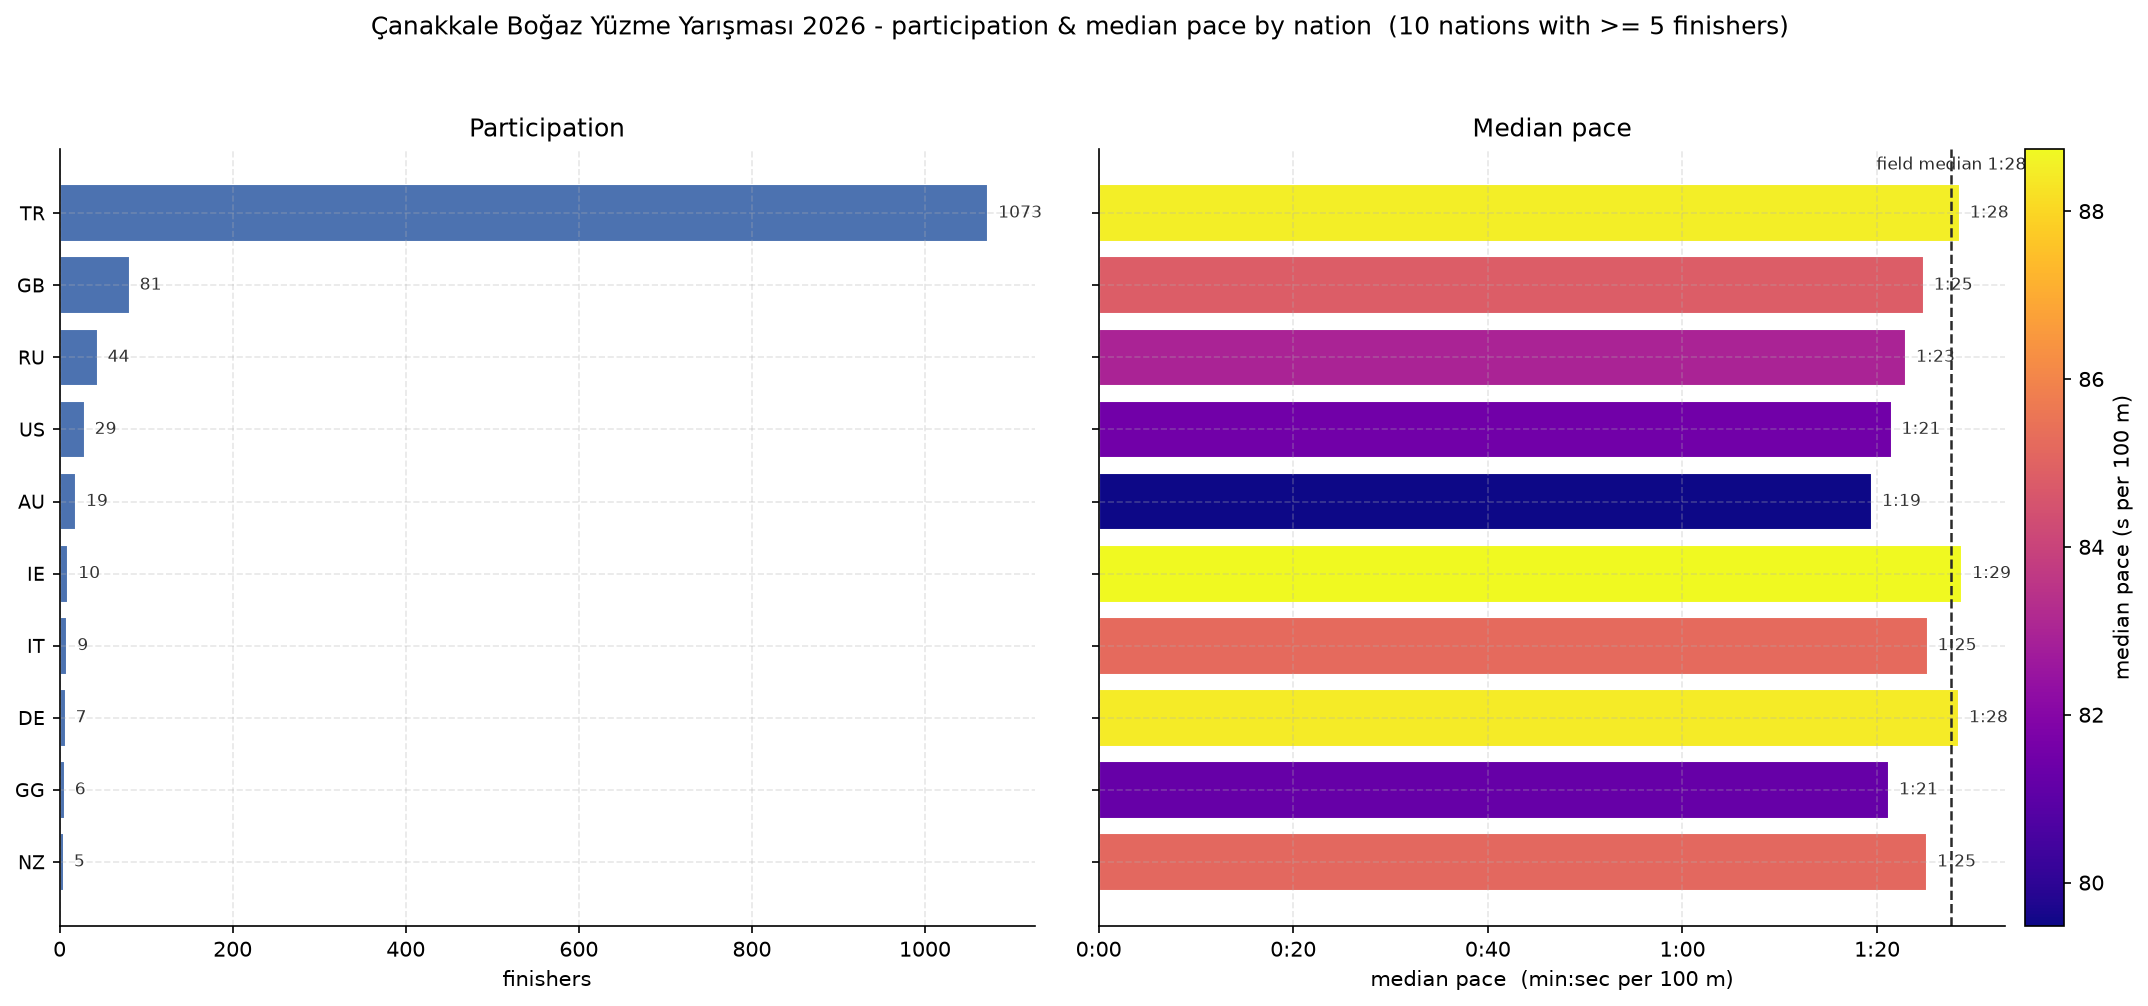
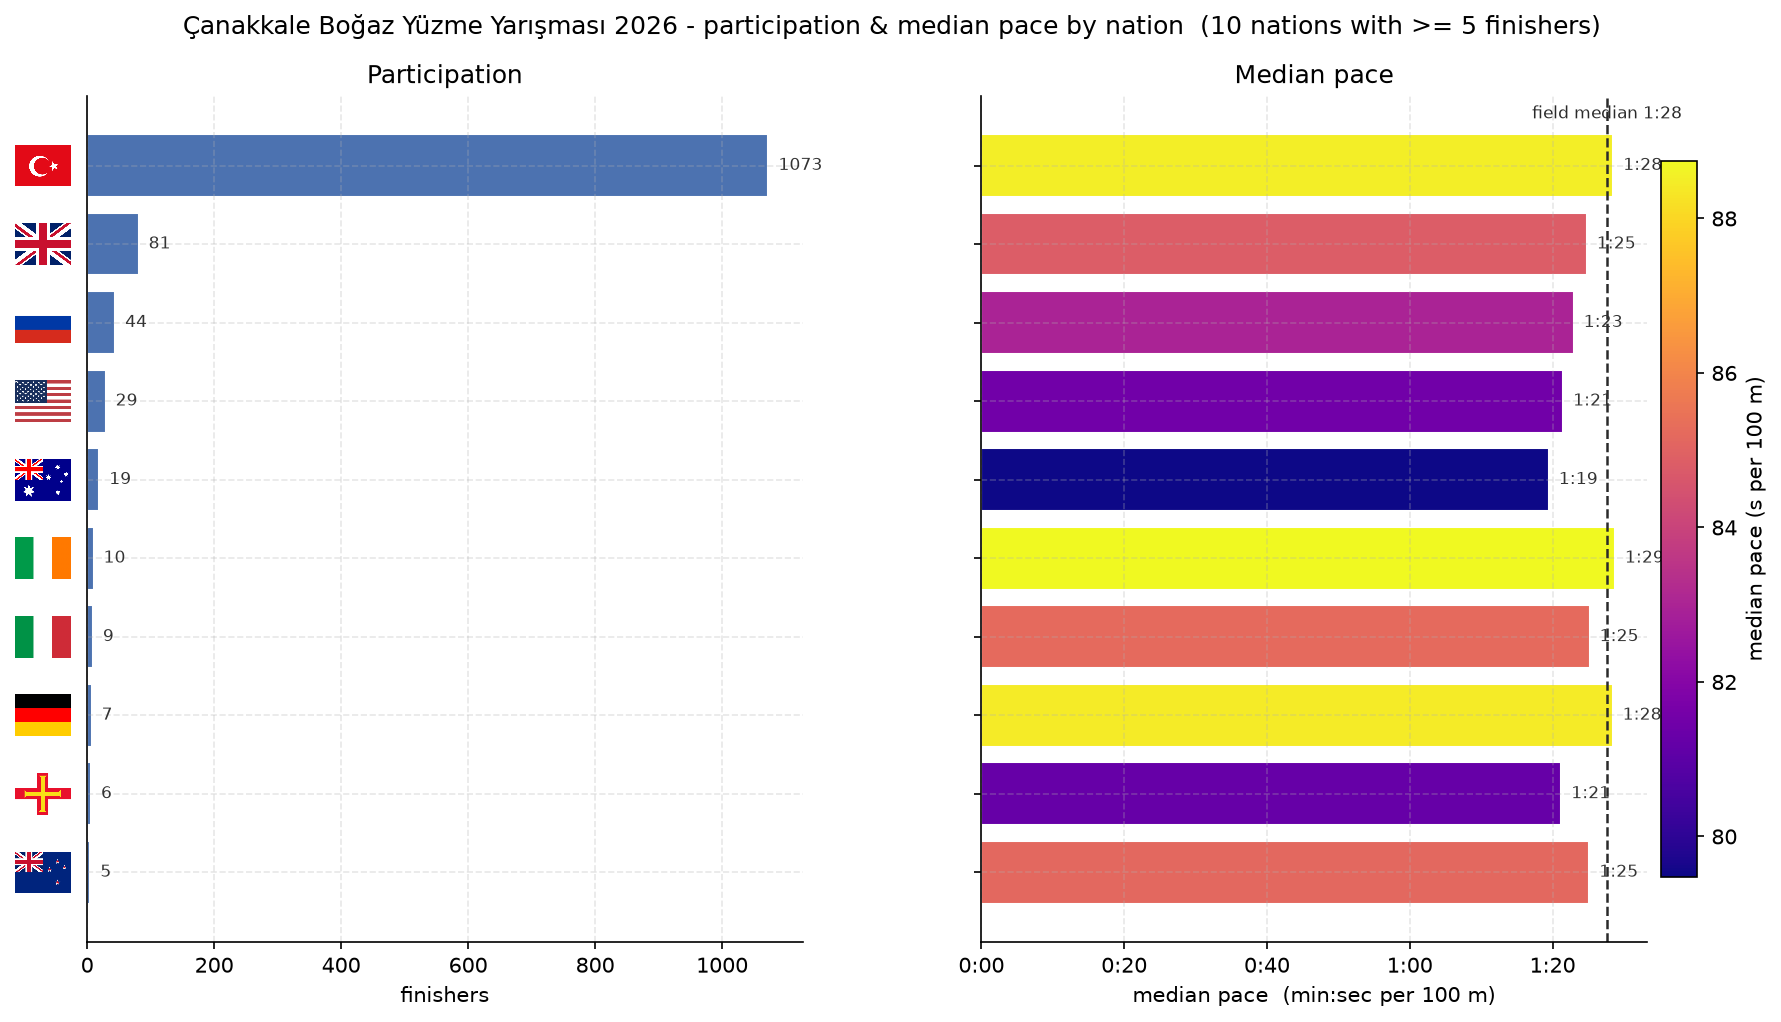
feat: add country flags to nation pace visualization

diff --git a/2026/canakkale/visualize_results.py b/2026/canakkale/visualize_results.py
@@ -1,13 +1,17 @@
 from __future__ import annotations
 
 import argparse
+import io
 import logging
 import re
 import sys
+import tempfile
 from pathlib import Path
 
 import numpy as np
 import pandas as pd
+import requests
+from PIL import Image
 
 import matplotlib
 
@@ -19,6 +23,7 @@ from matplotlib import colormaps
 from matplotlib.cm import ScalarMappable
 from matplotlib.colors import Normalize
 from matplotlib.ticker import FuncFormatter
+from matplotlib.offsetbox import OffsetImage, AnnotationBbox
 
 logger = logging.getLogger(__name__)
 
@@ -114,6 +119,62 @@ matplotlib.rcParams.update({
     "font.size": 10,
 })
 
+FLAG_BASE_URL = "https://my.raceresult.com/graphics/flags"
+FLAG_HEIGHT_PT = 20.0
+FLAG_GAP_PT = 8.0
+_FLAG_CACHE = {}
+
+
+def _flag_image(nation: str, cache_dir=None):
+    """Return an RGBA ndarray of a 2-letter nation's flag, or None on failure.
+
+    Flags are fetched once and cached in memory and on disk (as PNG files in
+    ``cache_dir``) so later runs do not re-download them.  Returns ``None`` for
+    pseudo codes such as ``N/A`` or when the download fails, letting callers
+    fall back to a plain text label.
+    """
+    code = (nation or "").strip().upper()
+    if not code or code == "N/A":
+        return None
+    if code in _FLAG_CACHE:
+        return _FLAG_CACHE[code]
+
+    cache_dir = Path(cache_dir) if cache_dir is not None else (
+        Path(tempfile.gettempdir()) / "bogaz_flags")
+    cache_dir.mkdir(parents=True, exist_ok=True)
+    png_path = cache_dir / f"{code}.png"
+    if png_path.exists():
+        try:
+            with Image.open(png_path) as im:
+                arr = np.asarray(im.convert("RGBA"))
+            _FLAG_CACHE[code] = arr
+            return arr
+        except Exception as exc:
+            logger.debug("flag cache read failed for %s: %s", code, exc)
+
+    try:
+        resp = requests.get(f"{FLAG_BASE_URL}/{code}.gif", timeout=10)
+        resp.raise_for_status()
+        raw = resp.content
+    except Exception as exc:
+        logger.debug("flag download failed for %s: %s", code, exc)
+        return None
+
+    try:
+        with Image.open(io.BytesIO(raw)) as im:
+            arr = np.asarray(im.convert("RGBA"))
+        try:
+            Image.fromarray(arr).save(png_path)
+        except Exception:
+            pass
+    except Exception as exc:
+        logger.debug("flag decode failed for %s: %s", code, exc)
+        return None
+
+    _FLAG_CACHE[code] = arr
+    return arr
+
+
 def view1_distribution(df, cfg, user, out_dir, show):
     times = df["swim_seconds"].to_numpy(dtype=float)
     median = float(np.median(times))
@@ -205,16 +266,12 @@ def view2_age_gender(df, cfg, user, out_dir, show):
                 continue
             pos = i - 0.17 if g == "M" else i + 0.17
             is_hl = bool(hl) and (g == hl[0] and band == hl[1])
-            parts = _draw_violin(ax, grp.to_numpy(dtype=float), pos,
-                                 hl_c if is_hl else color, width=0.30)
+            parts = _draw_violin(ax, grp.to_numpy(dtype=float), pos, hl_c if is_hl else color, width=0.30)
             if parts is not None and is_hl:
                 parts["bodies"][0].set_edgecolor("#000000")
                 parts["bodies"][0].set_linewidth(2.2)
-                ax.plot([pos], [np.median(grp)], marker="*", ms=15,
-                        color="#000000", zorder=9)
-            ax.text(pos, -0.055, str(int(grp.size)),
-                    transform=ax.get_xaxis_transform(), ha="center", va="top",
-                    fontsize=7.5, color="#555555")
+                ax.plot([pos], [np.median(grp)], marker="*", ms=15, color="#000000", zorder=9)
+            ax.text(pos, -0.055, str(int(grp.size)), transform=ax.get_xaxis_transform(), ha="center", va="top", fontsize=7.5, color="#555555")
 
     ax.set_xticks(range(len(bands)))
     ax.set_xticklabels(bands)
@@ -356,7 +413,21 @@ def view4_nations(df, cfg, out_dir, show):
     ax1.barh(order, m2["count"], color="#4C72B0", edgecolor="white")
     ax1.set_xlabel("finishers")
     ax1.set_title("Participation")
-    ax1.tick_params(axis="y", labelsize=9)
+    ax1.tick_params(axis="y", labelsize=9, length=0)
+
+    # Replace nation-code tick labels with country flags (text fallback).
+    ax1.set_yticks(range(len(order)))
+    ax1.set_yticklabels([""] * len(order))
+    for i, nation in enumerate(order):
+        arr = _flag_image(nation)
+        if arr is None:
+            ax1.get_yticklabels()[i].set_text(nation)
+            continue
+        im = OffsetImage(arr, zoom=FLAG_HEIGHT_PT / arr.shape[0])
+        ab = AnnotationBbox(im, (0, i), xycoords="data", xybox=(-FLAG_GAP_PT, 0),
+                            boxcoords="offset points", frameon=False, pad=0,
+                            box_alignment=(1.0, 0.5))
+        ax1.add_artist(ab)
     for i, v in enumerate(m2["count"]):
         ax1.text(v, i, f"  {int(v)}", va="center", fontsize=8, color="#333333")
 
@@ -385,7 +456,7 @@ def view4_nations(df, cfg, out_dir, show):
         scope = f"top 15 nations (of {len(g)} with entries)"
     fig.suptitle(f"{cfg.name} - participation & median pace by nation  "
                  f"({scope})", fontsize=12)
-    fig.tight_layout(rect=(0, 0, 1, 0.95))
+    fig.subplots_adjust(left=0.13, right=0.87, top=0.90, bottom=0.07, wspace=0.25)
 
     path = out_dir / "04_nation_participation_pace.png"
     if not show:

diff --git a/2026/istanbul/visualize_results.py b/2026/istanbul/visualize_results.py
@@ -570,12 +570,9 @@ def main():
     from event import EVENT
 
     parser = argparse.ArgumentParser(description=f"{EVENT.name} — görselleştirme")
-    parser.add_argument("--bib", type=int, default=None,
-                        help="senin bib numaran (varsayılan: event.py default_bib)")
-    parser.add_argument("--time", type=float, default=None,
-                        help="senin süren saniye cinsinden (--bib'i ezer)")
-    parser.add_argument("--show", action="store_true",
-                        help="grafikleri interaktif olarak da aç")
+    parser.add_argument("--bib", type=int, default=None, help="senin bib numaran (varsayılan: event.py default_bib)")
+    parser.add_argument("--time", type=float, default=None, help="senin süren saniye cinsinden (--bib'i ezer)")
+    parser.add_argument("--show", action="store_true", help="grafikleri interaktif olarak da aç")
     args = parser.parse_args()
 
     run(EVENT, bib=args.bib, time_override=args.time, show=args.show)
